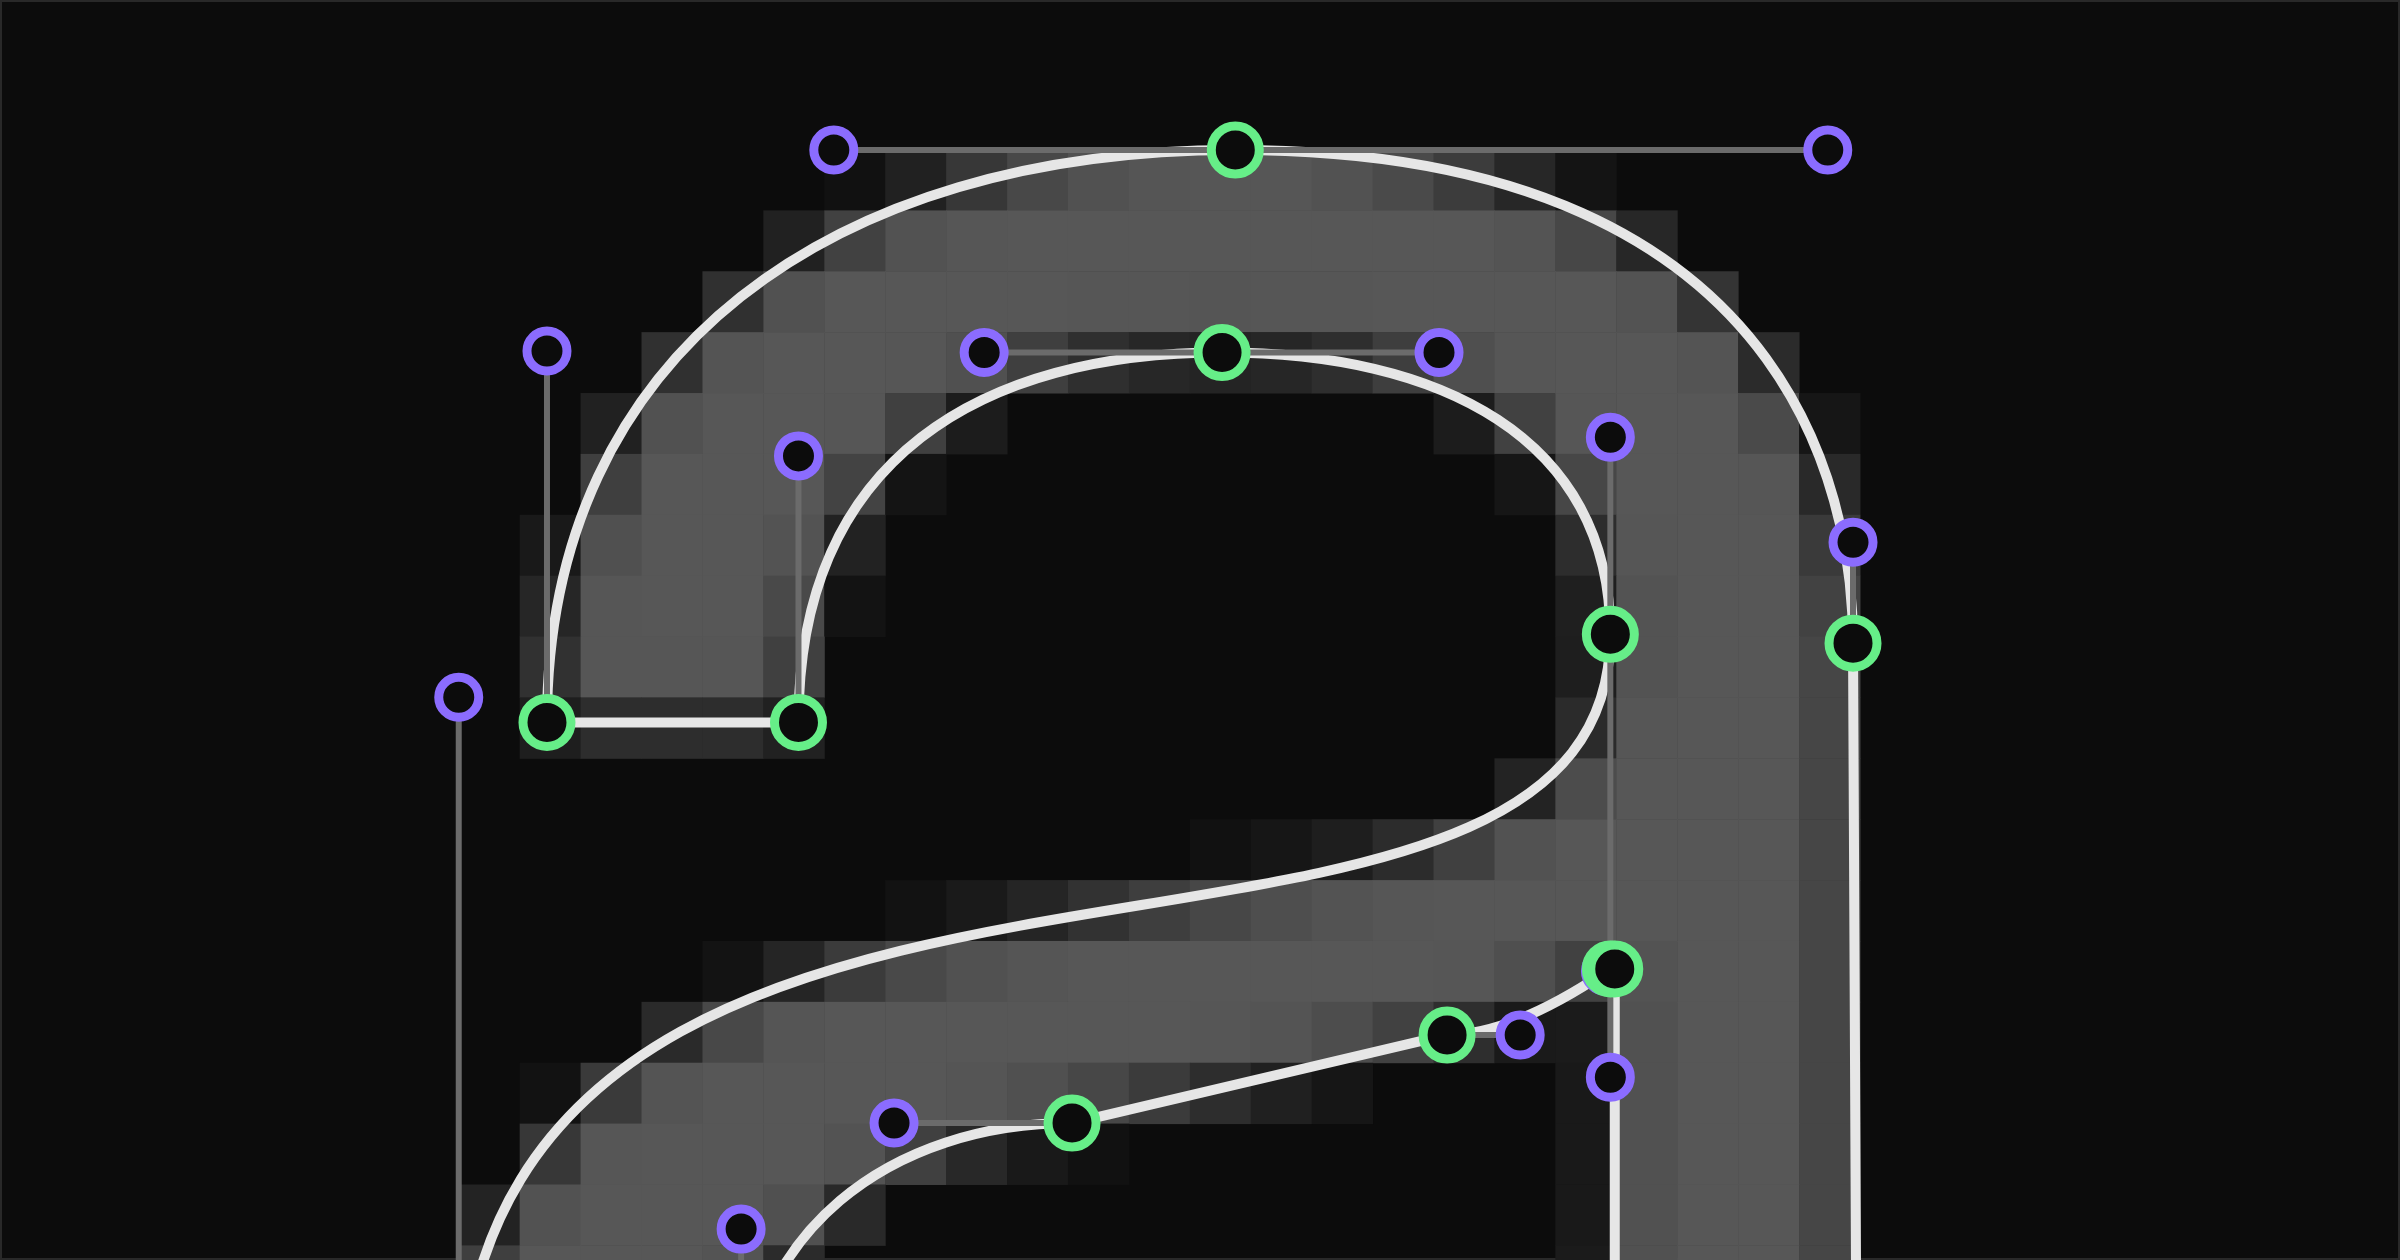
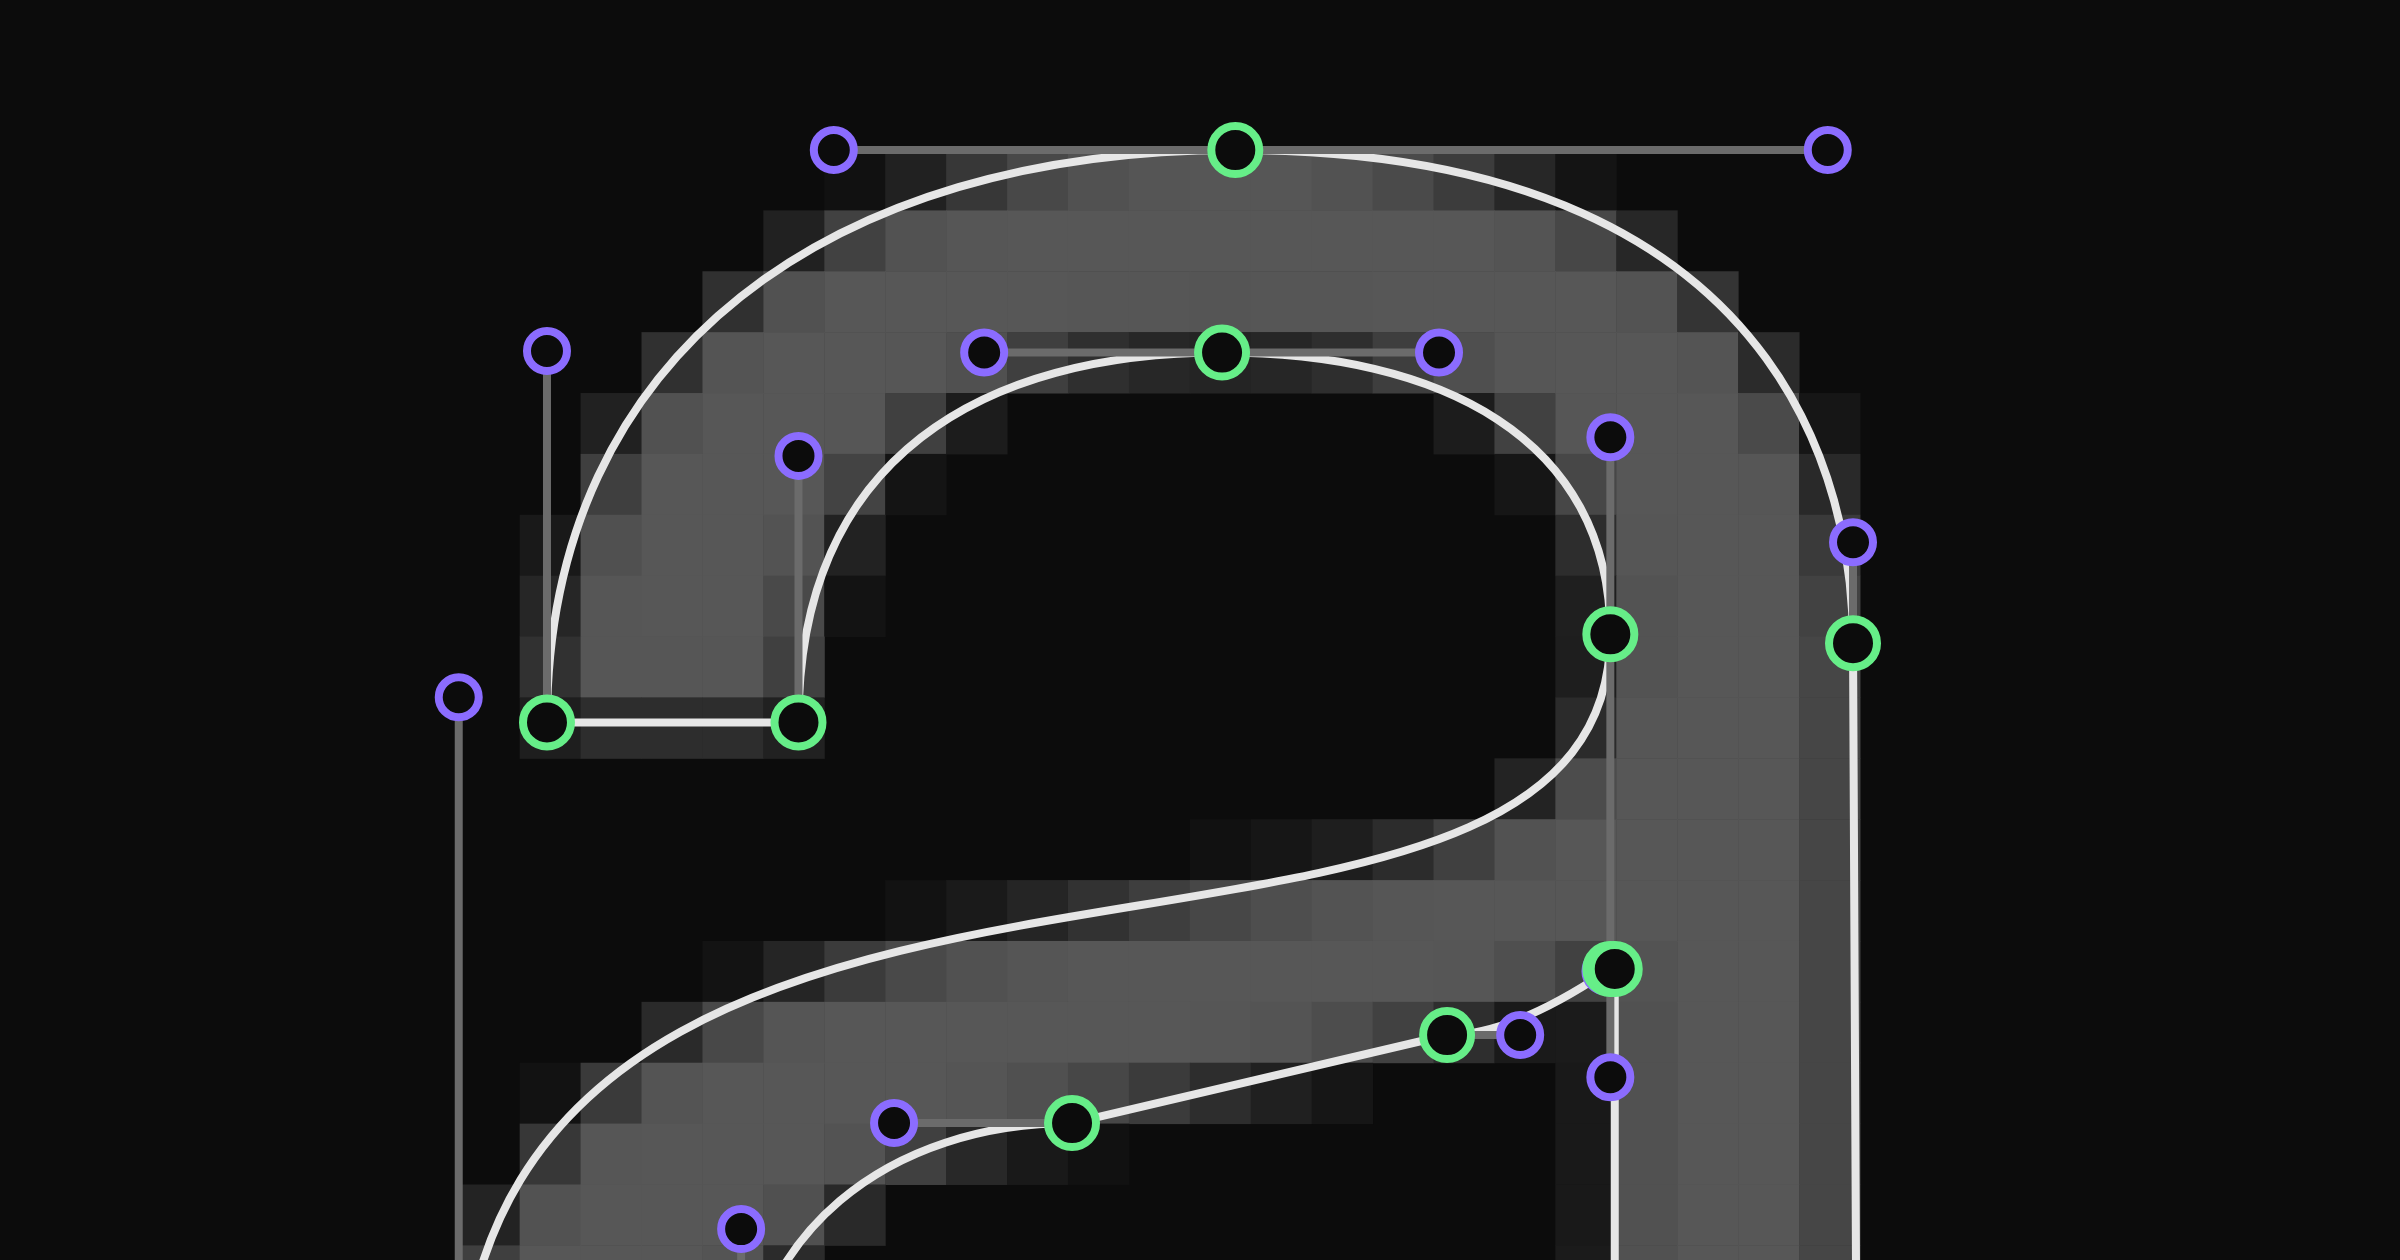
Polish the img2bez card and unify borders; rename autoresearch -> eval harness
- Share card (scripts/og/img2bez/card.py): single LINE_WIDTH for outline /
  handles / point rings, drop the baked-in frame (CSS frames it now), zoom in
  on the pixelated 'a' (sized by width, horizontally centred on the visible
  part, top-anchored so only the foot crops). Regenerated card + hero.
- One frame everywhere: 1px solid var(--border), radius calc(0.3rem + 1px) for
  code blocks (Expressive Code borderWidth), images, and the demo island.
  Whole-pixel width so rounded corners render evenly.
- Island grid drawn in device pixels (crisp 1px) and edge-aligned (the border
  is the outer grid line).
- Blog prose + commands: "automated evaluation/research loop" / "the harness"
  -> "eval harness", ./autoresearch/ -> ./eval-harness/, fix a typo.

diff --git a/src/components/TraceDemo.tsx b/src/components/TraceDemo.tsx
@@ -166,22 +166,34 @@ export default function TraceDemo({ image = "/demos/img2bez/a.png", glyph = "a",
     // sits at the island centre by default). At zoom 1 the major lines land
     // exactly on the four edges, and cells stay square because the island is
     // 4:3. It still pans/zooms with the content like an editor.
+    // Draw in device-pixel space, snapped, so the lines are a crisp 1px (the
+    // same weight as the border). Lines that land on the canvas edge are
+    // skipped — the 1px border is itself the outer grid line, so the grid lines
+    // up perfectly with the edge by default.
     const drawGrid = (cell: number, alpha: number) => {
       if (cell * s < 4) return; // hide a level when it would get too dense
+      ctx.save();
+      ctx.setTransform(1, 0, 0, 1, 0, 0);
       ctx.strokeStyle = `rgba(255,255,255,${alpha})`;
-      ctx.lineWidth = 1;
+      ctx.lineWidth = dpr; // 1 CSS px
+      const off = Math.round(dpr) % 2 ? 0.5 : 0; // crisp centring for odd widths
       ctx.beginPath();
       for (let n = Math.ceil((invX(0) - gcx) / cell); n <= (invX(W) - gcx) / cell; n++) {
         const X = IX(gcx + n * cell);
-        ctx.moveTo(X, 0);
-        ctx.lineTo(X, H);
+        if (X < 0.5 || X > W - 0.5) continue; // the border is the edge line
+        const dX = Math.round(X * dpr) + off;
+        ctx.moveTo(dX, 0);
+        ctx.lineTo(dX, H * dpr);
       }
       for (let m = Math.ceil((invY(0) - gcy) / cell); m <= (invY(H) - gcy) / cell; m++) {
         const Y = IY(gcy + m * cell);
-        ctx.moveTo(0, Y);
-        ctx.lineTo(W, Y);
+        if (Y < 0.5 || Y > H - 0.5) continue;
+        const dY = Math.round(Y * dpr) + off;
+        ctx.moveTo(0, dY);
+        ctx.lineTo(W * dpr, dY);
       }
       ctx.stroke();
+      ctx.restore();
     };
     const majorCell = W / 8 / base; // content units; W/8 px at zoom 1
     drawGrid(majorCell / 4, 0.035); // dense sub-grid
@@ -321,11 +333,11 @@ export default function TraceDemo({ image = "/demos/img2bez/a.png", glyph = "a",
         width: "100%",
         aspectRatio: "4 / 3",
         margin: "1.5rem 0",
-        // Match the code snippets' border exactly (Expressive Code: 1.5px solid
+        // Match the code snippets' border exactly (Expressive Code: 1px solid
         // var(--border), radius calc(--ec-brdRad + --ec-brdWd)).
-        borderRadius: "calc(0.3rem + 1.5px)",
+        borderRadius: "calc(0.3rem + 1px)",
         overflow: "hidden",
-        border: `1.5px solid ${dropping ? GREEN : "var(--border)"}`,
+        border: `1px solid ${dropping ? GREEN : "var(--border)"}`,
         background: BG,
       }}
       onDragOver={(e) => {

diff --git a/src/styles/typography.css b/src/styles/typography.css
@@ -145,6 +145,13 @@
       margin: 1.4em 0;
     }
 
+    /* Same frame as the code blocks and the interactive demo island
+       (Expressive Code: 1px solid var(--border), radius brdRad + brdWd). */
+    img, video {
+      border: 1px solid var(--border);
+      border-radius: calc(0.3rem + 1px);
+    }
+
     kbd {
       color: var(--foreground);
       background: var(--muted);

diff --git a/astro.config.ts b/astro.config.ts
@@ -44,6 +44,7 @@ export default defineConfig({
       styleOverrides: {
         codeFontSize: '0.75rem',
         borderColor: 'var(--border)',
+        borderWidth: '1px', // whole pixel so rounded corners render evenly (1.5px smears at the arc)
         codeFontFamily: 'var(--font-mono)',
         codeBackground:
           'color-mix(in oklab, var(--secondary) 25%, transparent)',

diff --git a/scripts/og/img2bez/card.py b/scripts/og/img2bez/card.py
@@ -22,10 +22,10 @@ from PIL import Image
 
 W, H = 2400, 1260
 CELL = 60  # raster pixel block size (the "low resolution")
+LINE_WIDTH = 8  # one stroke weight for the outline, handles, and point rings
 
 # colours, 0-1 floats. Dark-mode editor palette (matches the demo island).
 BG = (0.047, 0.047, 0.047)
-FRAME = (0.16, 0.16, 0.16)
 PIXEL_MAX = (0.34, 0.34, 0.34)  # brightest raster block (darkest source pixel)
 OUTLINE = (0.90, 0.90, 0.90)
 HANDLE = (0.42, 0.42, 0.42)
@@ -89,13 +89,8 @@ def main():
     db.newPage(W, H)
     db.fill(*BG)
     db.rect(0, 0, W, H)
-
-    # frame, like the code blocks / demo island
-    db.fill(None)
-    db.stroke(*FRAME)
-    db.strokeWidth(2)
-    db.rect(1, 1, W - 2, H - 2)
-    db.stroke(None)
+    # No baked-in frame: the page gives this image the same CSS border + radius
+    # as code blocks and the demo island, so a drawn frame would double it.
 
     # ── the glyph box (drawbot is y-up, origin bottom-left) ──
     # Size the glyph by WIDTH so it fills the wide card (a real zoom-in).
@@ -149,7 +144,7 @@ def main():
     # outline
     db.fill(None)
     db.stroke(*OUTLINE)
-    db.strokeWidth(10)
+    db.strokeWidth(LINE_WIDTH)
     db.lineJoin("round")
     for pts in cs:
         n = len(pts)
@@ -172,7 +167,7 @@ def main():
 
     # handle lines
     db.stroke(*HANDLE)
-    db.strokeWidth(6)
+    db.strokeWidth(LINE_WIDTH)
     for pts in cs:
         n = len(pts)
         for i in range(n):
@@ -186,7 +181,7 @@ def main():
                     db.drawPath(p)
 
     # points (hollow rings: bg fill + coloured stroke)
-    db.strokeWidth(9)
+    db.strokeWidth(LINE_WIDTH)
     for pts in cs:
         for p in pts:
             x, y = tx(p[0], p[1])